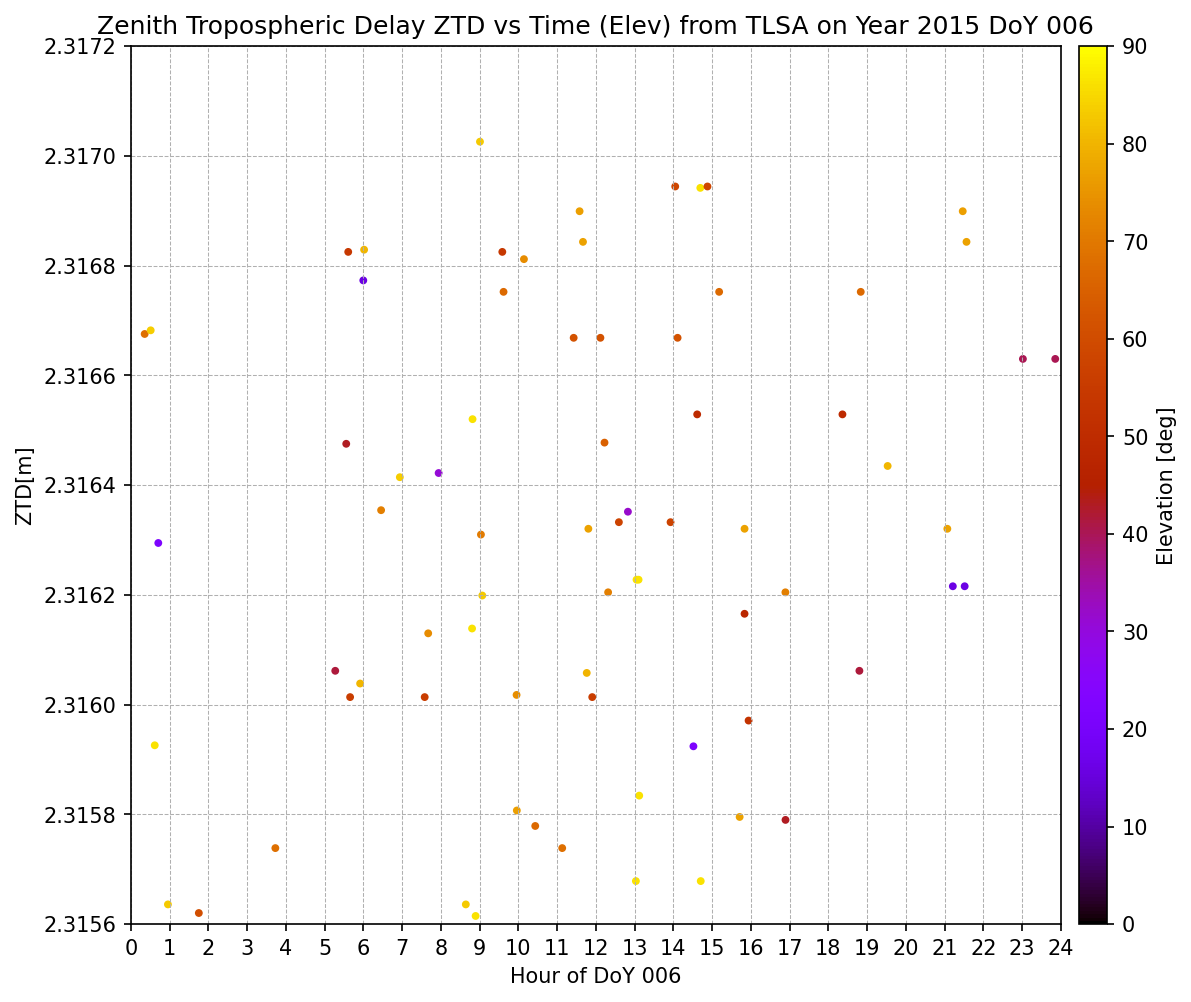
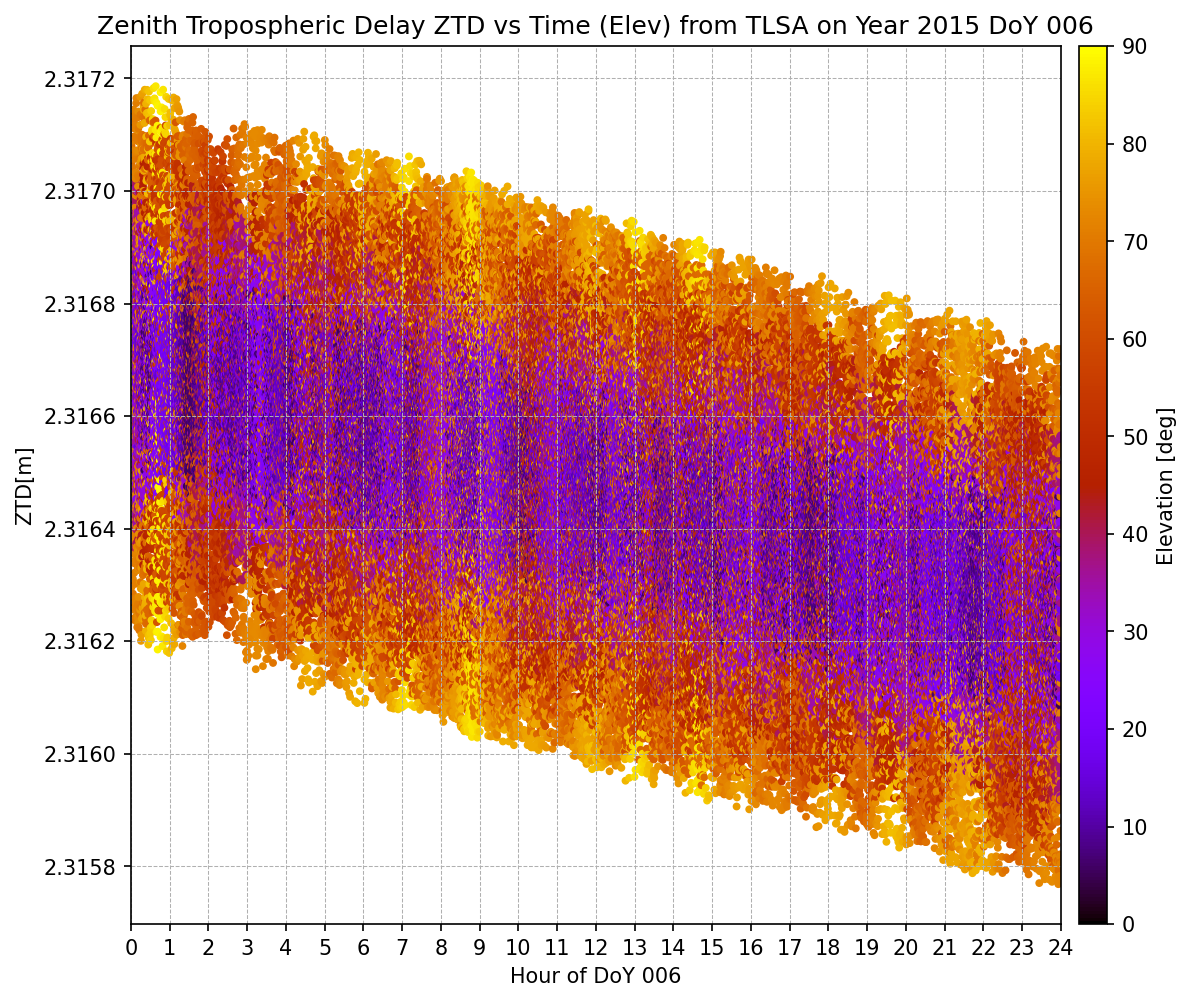
Fixed T4.2. Elevation is in radians.

diff --git a/SRC/TropoFunctions.py b/SRC/TropoFunctions.py
@@ -65,7 +65,9 @@ def plotTropo_ZTD_Time_Elev(LosData):
     # PlotConf["yTicks"] = sorted(unique(LosData[LOS_IDX["VTEC[m]"]]))
     # PlotConf["yTicksLabels"] = sorted(unique(LosData[LOS_IDX["VTEC[m]"]]))
     # PlotConf["yLim"] = [round(min(unique(LosData[LOS_IDX["TROPO[m]"]]))) - 1, round(max(unique(LosData[LOS_IDX["TROPO[m]"]])) + 1)]
-    PlotConf["yLim"] = [2.3156, 2.3172]
+    # PlotConf["yLim"] = [2.3156, 2.3172]
+    # PlotConf["yLim"] = [2., 3.]
+
 
     PlotConf["xLabel"] = "Hour of DoY 006"
     PlotConf["xTicks"] = range(0, 25)

diff --git a/SRC/COMMON/Utils.py b/SRC/COMMON/Utils.py
@@ -20,7 +20,7 @@ def compute_tropo_ztd(STD, ELEV):
     ZTD = np.zeros((STD.size))
 
     for i in range(ZTD.size):
-        ZTD[i] = STD[i] / ( 1.001 / np.sqrt(0.002001 + np.sin(ELEV[i]) ** 2) )
+        ZTD[i] = STD[i] / ( 1.001 / np.sqrt(0.002001 + np.sin(np.deg2rad(ELEV[i])) ** 2) )
 
     return ZTD
 
